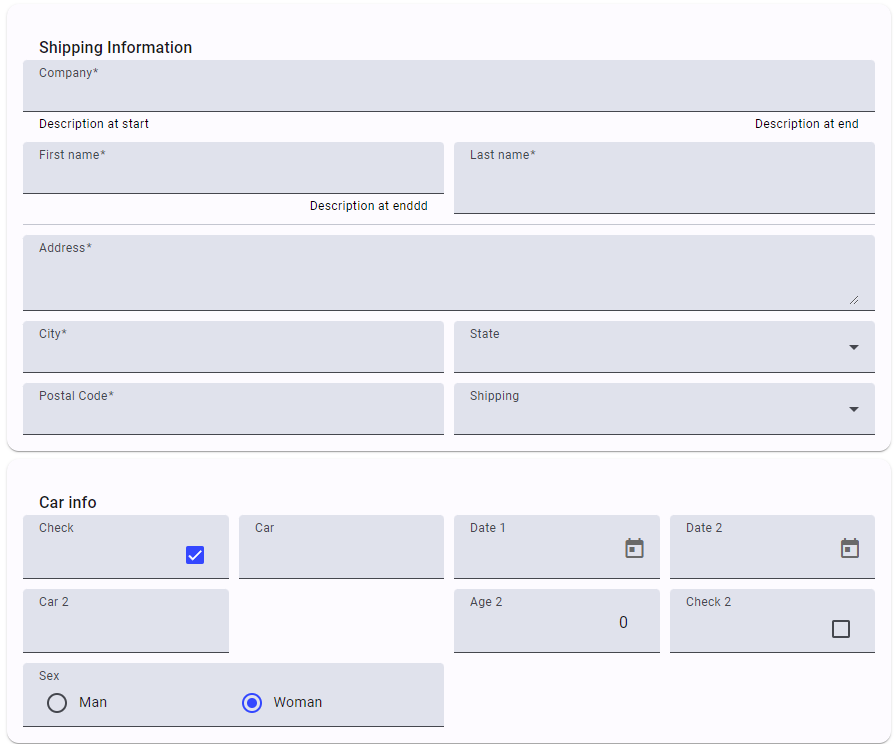
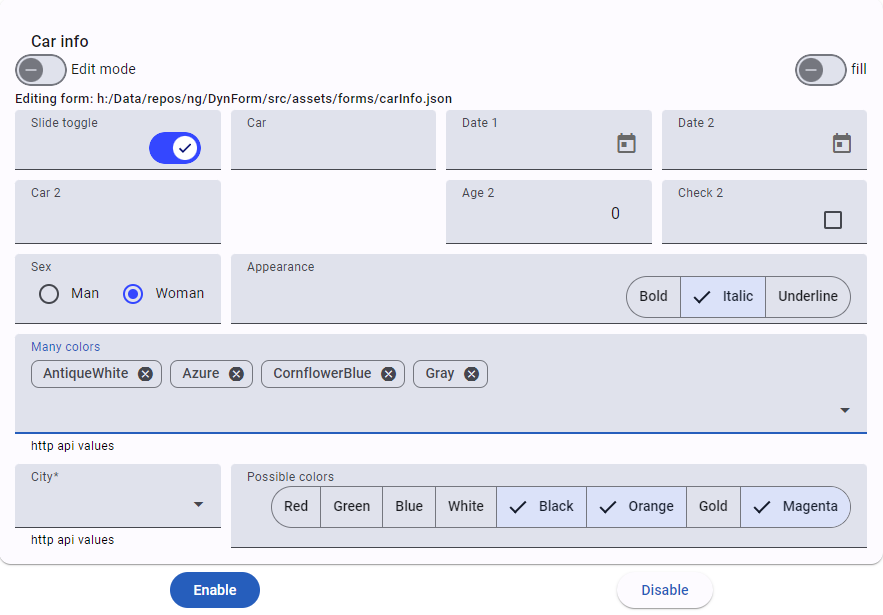
chips, autocompletem docs

diff --git a/src/app/form-flow/form-flow-content.component.ts b/src/app/form-flow/form-flow-content.component.ts
@@ -124,14 +124,14 @@ export class FormFlowContentComponent implements OnInit {
           tap(value => console.log('tap', value, ctl)),
           filter(value => {
             const rtn = (typeof value === 'string' || !value);
-            console.log('filter', rtn, value);
+            console.log('filter', rtn, rtn ? 'VOLA sa api' : 'NEVOLA sa api', value);
 
             return rtn;
           }), // disable calling getApiValues after selecting from combo list. It prevets filtering to selected value. for chips and autocomplete
           switchMap(value => {
-            const strFlt = value ?? '-';
-            ctl.lastFilter = strFlt;
-            console.log('switchMap', ctl, ctl.lastFilter);
+            let strFlt = value;
+            if (!value)
+              strFlt = '-';
 
             return this.fservice.getApiValues(ctl.api, strFlt);
           })
@@ -317,10 +317,11 @@ export class FormFlowContentComponent implements OnInit {
   }
 
   chipClearApiInput(ctl: any, inp: HTMLInputElement, trigger: MatAutocompleteTrigger, chipGrid: MatChipGrid) {
+    // nefunguje to dobre
     inp.value = '';
-    // const fc = this.formGroup.get(ctl.name) as FormControl;
-    //    chipGrid.valueChange.emit([]);
-
+   //const fc = this.formGroup.get(ctl.name) as FormControl;
+    chipGrid.valueChange.emit('');
+    //chipGrid.valueChange.next('');
   }
 
   acClearApiInput(ctl: any, inp: HTMLInputElement) {

diff --git a/src/app/form-flow/form-flow-content.component.html b/src/app/form-flow/form-flow-content.component.html
@@ -193,11 +193,11 @@
         [matAutocomplete]="auto" [matChipInputSeparatorKeyCodes]="chipSeparatorKeysCodes"
         (matChipInputTokenEnd)="chipAdd($event, ctl)" (blur)="chipLostFocus(ctl, chipInput)" 
         />
-      @if(ctl.lastFilter === '-'){
+      <!-- @if(ctl.lastFilter !== '-'){
       <button mat-icon-button matSuffix (click)="chipClearApiInput(ctl, chipInput, trigger, chipGrid)">
         <mat-icon>close</mat-icon>
       </button>
-      }
+      } -->
 
       <button mat-icon-button matSuffix (click)="openApiList(trigger, ctl.name); $event.stopPropagation()">
         <mat-icon>arrow_drop_down</mat-icon>

diff --git a/README.md b/README.md
@@ -8,6 +8,7 @@ Testing angular material dynamic forms, angular 17
 * Responsive
 * Support form validators and hints
 * Support for text, textarea, divider, space, select, number, checkbox, date, radio group
+* Support for autocomplete and chips with autocomplete with http get api source
 * Support for widths full, half, thirds, quarters, max 1 up to 4 columns with automatic wrap
 * Support for moving controls in editing mode
 
